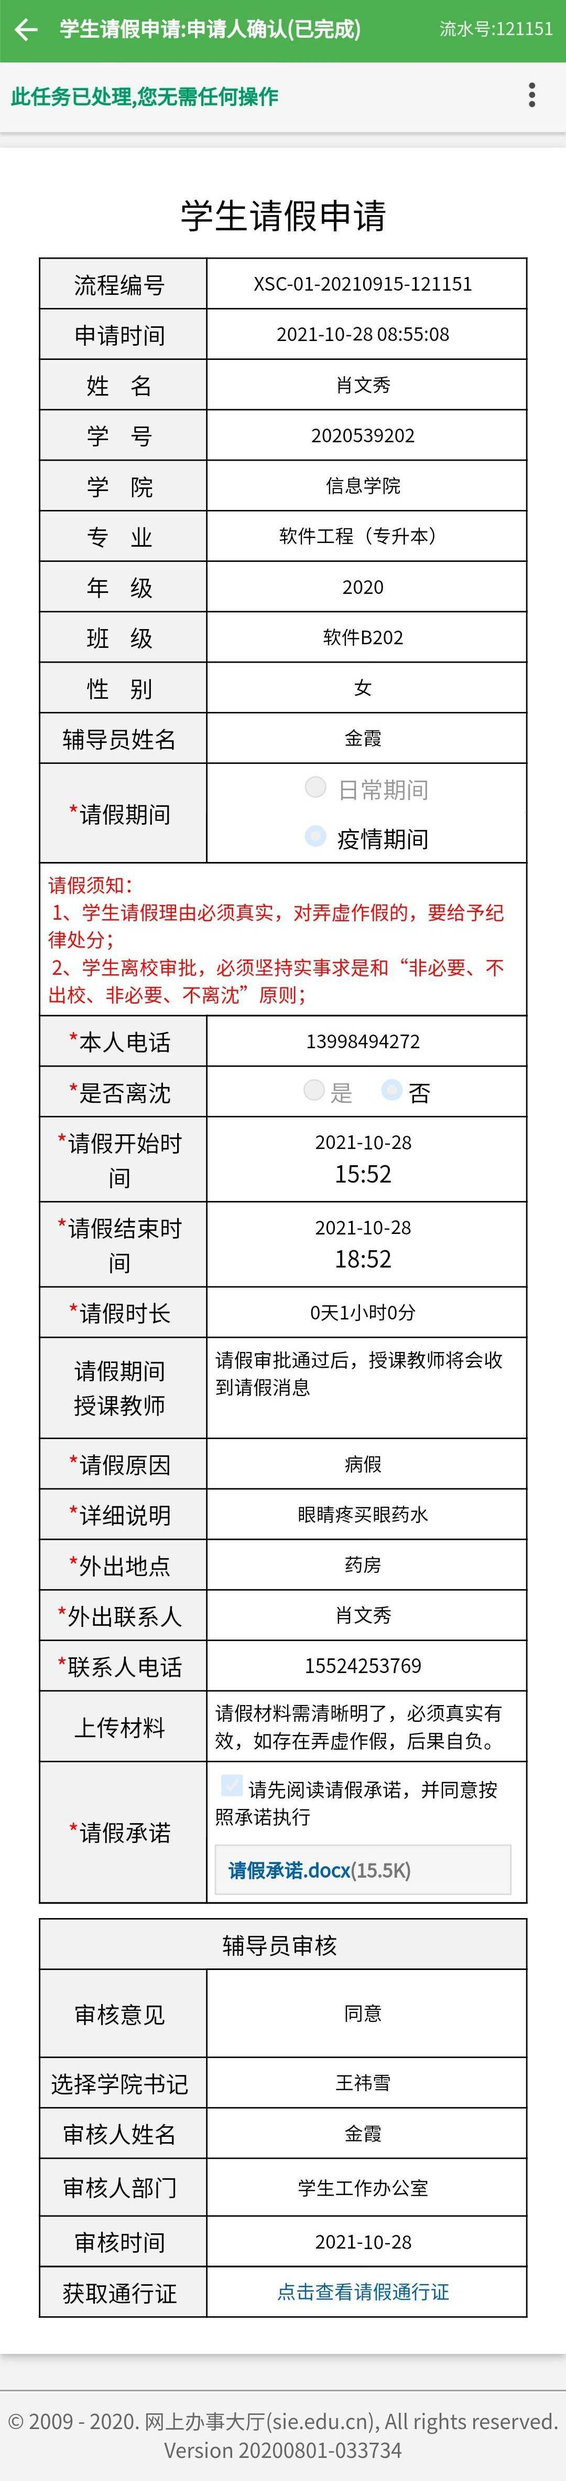
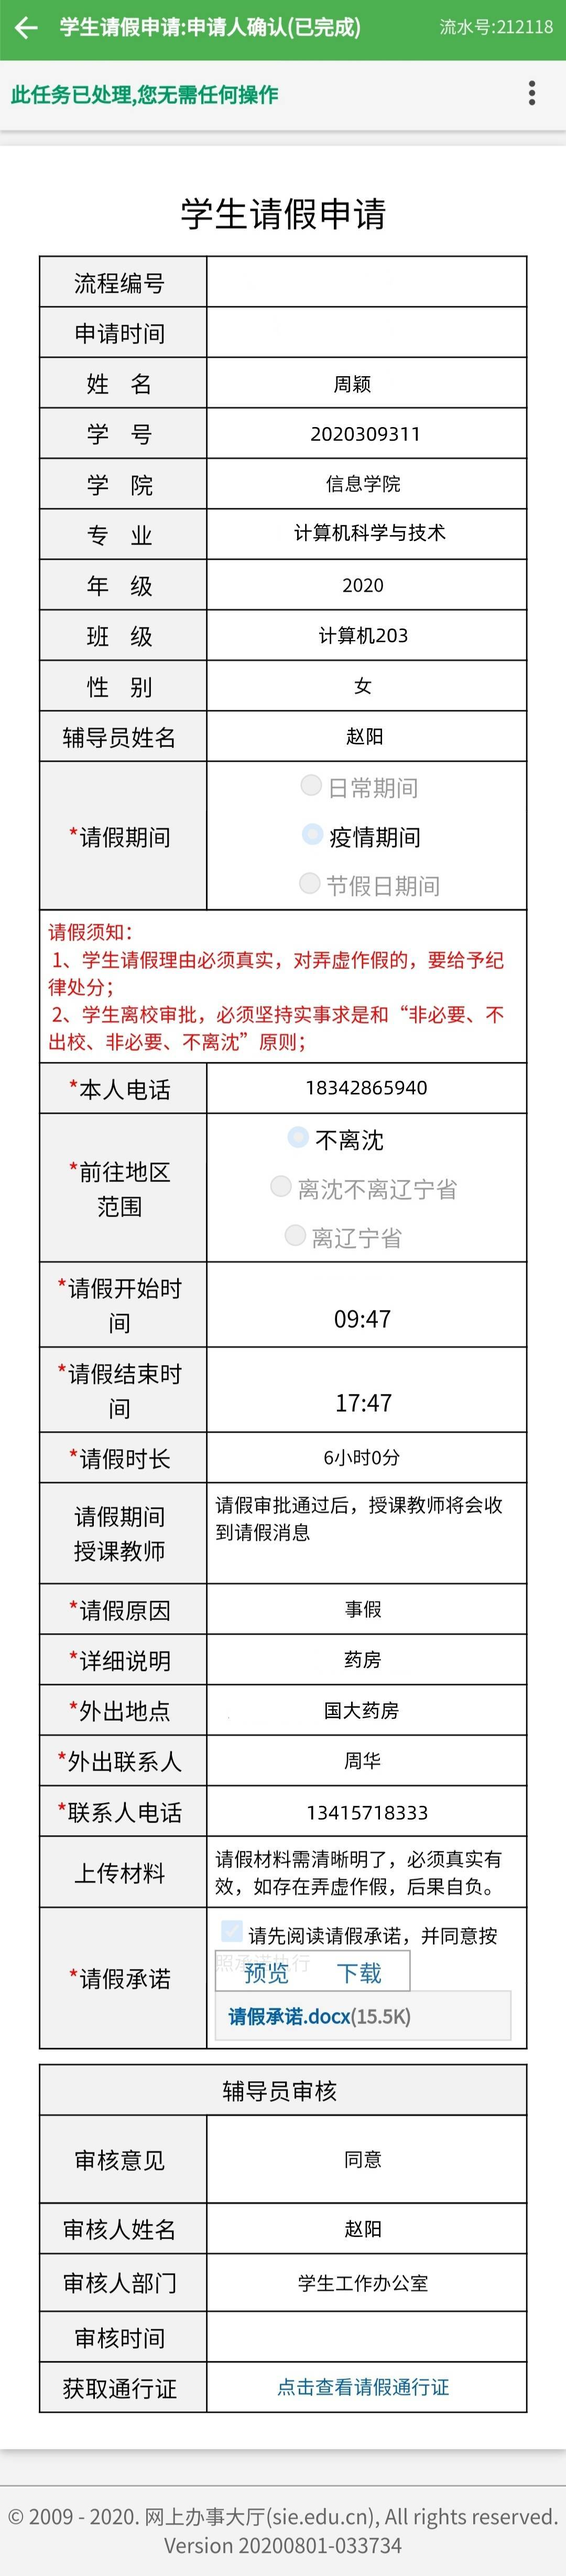
Add files via upload

Changed region(s): [[0.0, 0.0, 0.9778, 0.9947], [0.7639, 0.0, 0.9778, 0.0622], [0.3361, 0.7771, 0.3667, 0.8082]]

diff --git a/index.html b/index.html
@@ -6,26 +6,111 @@
 </head>
 <body>
 	<div class="bg">
-		<a href="index2.html"><img src="22.png" class="bt"/></a>
+		<div class="right">
+			<!-- 编号 -->
+			<p class="num">XSC-01-<scan id="numtime"></scan>-212118</p>
+			<!-- 申请时间 -->
+			<p class="shenqing" ><scan id="shenqingtime"></scan> 09:49:00</p>
+			<!-- 开始请假时间 -->
+			<p class="start" ><scan id="startime"></scan></p>
+			<!-- 结束请假时间 -->
+			<p class="over" ><scan id="overtime"></scan></p>
+			<!-- 审核时间 -->
+			<p class="shenhe" ><scan id="shenheT"></scan></p>
+			<a href="index2.html"><img src="22.png" class="bt"/></a>
+		</div>
 	</div>
 	
 </body>
 <style type="text/css">
 .bg{
 	width: 1080px;
-	margin-top: -8px;
-	margin-left: -9px;
-	height: 4692px;
+	margin-top: -38px;
+	margin-left: -8px;
+	height: 4969px;
 	display: block;
 	position: absolute;
 	background: url(index.jpg) no-repeat center;
 }
 .bt{
-	margin-top: 4323px;
-	margin-left: 528px;
+	margin-bottom: 363px;
+	margin-left: 132px;
 	height: 45px;
 	width: 332px;
+	position: absolute;bottom:0;
 
 }
+.right{
+	margin-left: 393px;
+	height: 4108px;
+	width: 614px;
+	/*background-color: red;*/
+	margin-top: 518px;
+}
+.num{
+	padding-top: 26px;
+	letter-spacing: 0px;/*字符间距*/
+	font-size: 33px;
+	margin-left: 92px;
+}
+.shenqing{
+	padding-top: 20px;
+	letter-spacing: 0px;/*字符间距*/
+	font-size: 33px;
+	margin-left: 135px;
+}
+.start{
+	padding-top: 1744px;
+	letter-spacing: 0px;/*字符间距*/
+	font-size: 33px;
+	margin-left: 210px;
+}
+.over{
+	padding-top: 86px;
+	letter-spacing: 0px;/*字符间距*/
+	font-size: 33px;
+	margin-left: 208px;
+}
+.shenhe{
+	padding-top: 1759px;
+	letter-spacing: 0px;/*字符间距*/
+	font-size: 33px;
+	margin-left: 136px;
+}
 </style>
+<script>
+	function time(){//编写获取时间的函数
+		var date = new Date();//创建JS自带的Date日期对象
+	 
+		var year = date.getFullYear();//获取年
+	 
+		var month = date.getMonth()+1;//获取月，注意其范围是0~30，使用时需要加1
+		month=month<10?"0"+month:month;//三则运算符判断是个位数则前面加一个零，好看
+	 
+		var day = date.getDate();//获取日
+		day=day<10?"0"+day:day;
+	 
+	    // 编号
+	    var curnum = year+""+month+""+day;
+		console.log(curnum);//在控制台打印当前时间
+		document.getElementById("numtime").innerHTML=curnum
+		//在控制台打印当前时间
+		var current = year+"-"+month+"-"+day;
+		console.log(current);
+		// 申请时间
+		document.getElementById("shenqingtime").innerHTML=current
+		//开始时间
+		document.getElementById("startime").innerHTML=current
+		// 结束时间
+		document.getElementById("overtime").innerHTML=current
+
+		// 审核时间
+		var currtime = year+"-"+month+"-"+day+" 08:52:19";
+		console.log(current);//在控制台打印当前时间
+		document.getElementById("shenheT").innerHTML=currtime
+		//获取对应ID标签的对象，将变量current显示在对应位置
+	}
+		time();
+		setInterval("time()",1000);//setInterval函数可以延迟一定时间后执行某一函数
+    </script>
 </html>

diff --git a/index2.html b/index2.html
@@ -6,6 +6,10 @@
 </head>
 <body>
 	<div class="bg">
+		<!-- 开始请假时间 -->
+		<p class="start" ><scan id="startime"></scan></p>
+		<!-- 结束请假时间 -->
+		<p class="over" ><scan id="overtime"></scan></p>
 	</div>
 	
 </body>
@@ -19,5 +23,45 @@
 	position: absolute;
 	background: url(2.jpg) no-repeat center;
 }
+p{
+	color: #584737;
+}
+.start{
+	padding-top: 1637px;
+	letter-spacing: 5px;/*字符间距*/
+	font-size: 36px;
+	margin-left: 434px;
+}
+.over{
+	padding-top: 73px;
+	letter-spacing: 5px;/*字符间距*/
+	font-size: 36px;
+	margin-left: 434px;
+}
 </style>
+<script>
+	function time(){//编写获取时间的函数
+		var date = new Date();//创建JS自带的Date日期对象
+	 
+		var year = date.getFullYear();//获取年
+	 
+		var month = date.getMonth()+1;//获取月，注意其范围是0~30，使用时需要加1
+		month=month<10?"0"+month:month;//三则运算符判断是个位数则前面加一个零，好看
+	 
+		var day = date.getDate();//获取日
+		day=day<10?"0"+day:day;
+
+		////开始时间
+		var current1 = year+"-"+month+"-"+day+" 09:47";
+		console.log(current1);
+		document.getElementById("startime").innerHTML=current1
+
+		// 结束时间
+		var current2 = year+"-"+month+"-"+day+" 17:47";
+		console.log(current2);
+		document.getElementById("overtime").innerHTML=current2
+	}
+		time();
+		setInterval("time()",1000);//setInterval函数可以延迟一定时间后执行某一函数
+    </script>
 </html>
